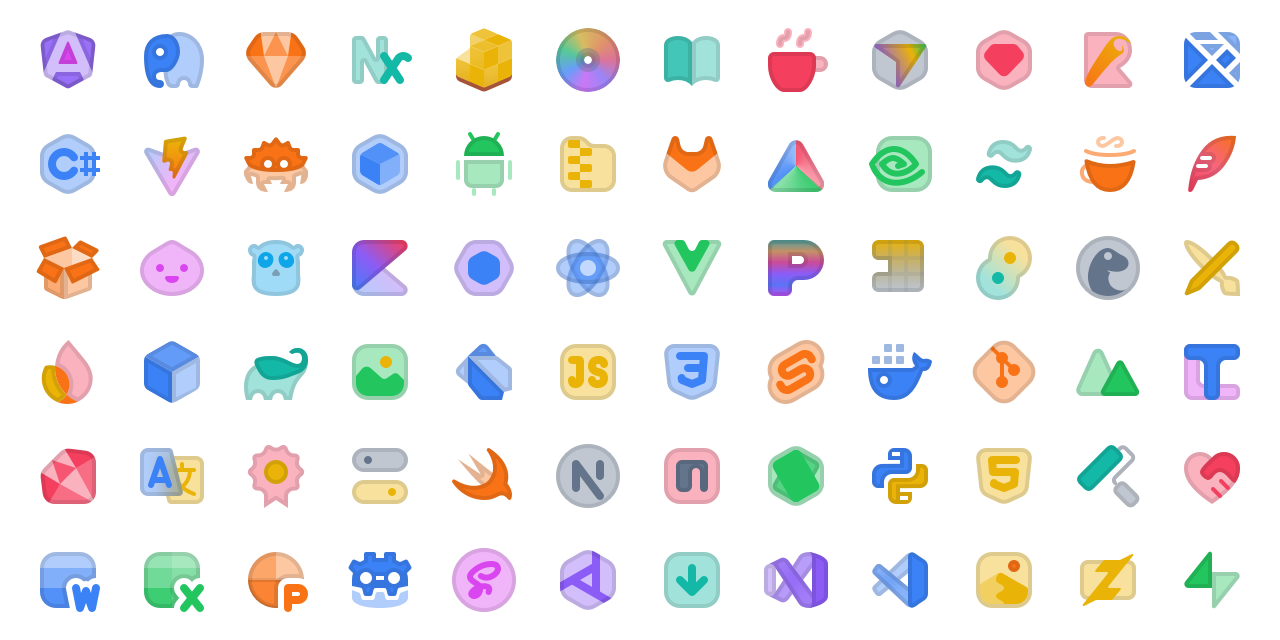
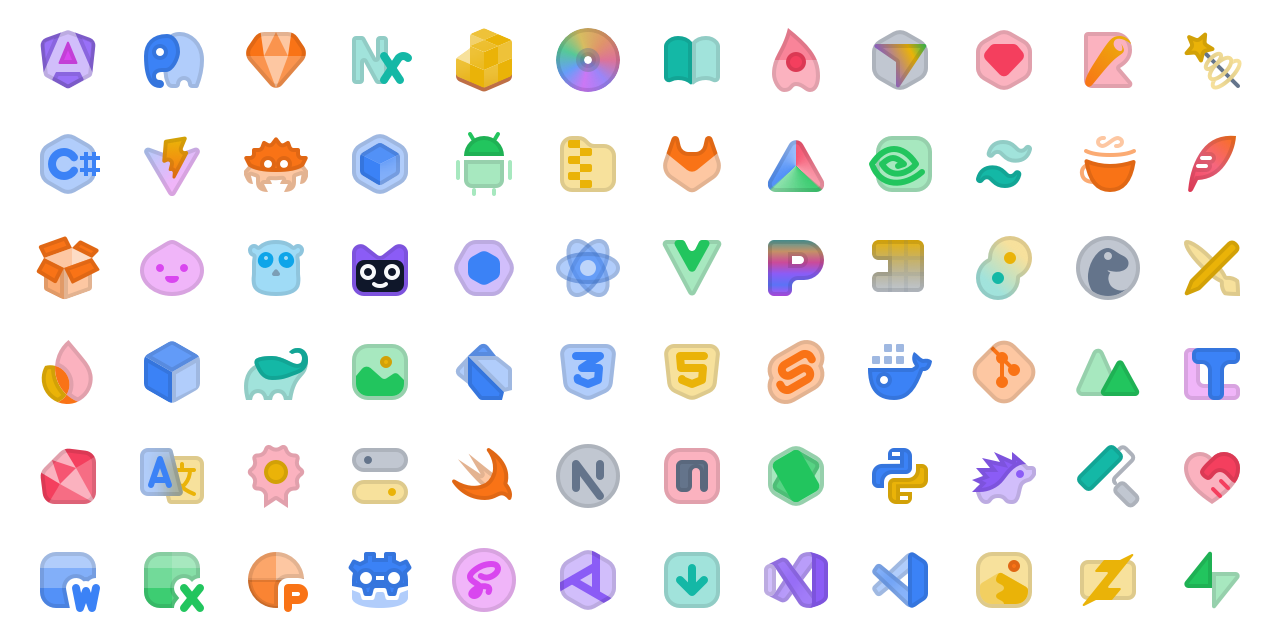
🌼 1.3.0

diff --git a/readme.md b/readme.md
@@ -35,7 +35,27 @@
 
 ## Preview
 
-<br />
+<p align="center">
+  <img width="640" src="https://raw.githubusercontent.com/thang-nm/Flow-Icons/main/freeCodeCamp.png">
+</p>
+
+## Packs
+
+See [Toggle icon packs](#toggle-icon-packs) guide.
+
+<p align="center">
+  <img width="640" src="https://raw.githubusercontent.com/thang-nm/Flow-Icons/main/packs.png">
+</p>
+
+## Alternatives
+
+See [Icon replacements](#icon-replacements) guide.
+
+<p align="center">
+  <img width="640" src="https://raw.githubusercontent.com/thang-nm/Flow-Icons/main/alternatives.png">
+</p>
+
+## Icons
 
 <p align="center">
   <img width="640" src="https://raw.githubusercontent.com/thang-nm/Flow-Icons/main/icons.png">
@@ -49,7 +69,7 @@ You'll then be prompted to download the icons.
 
 ## Features
 
-- Supports dark, light, and dim themes
+- Supports dark and light themes
 - Looks great even on non-Retina displays
 - Includes most common file and folder types
 - Offers customization options
@@ -63,7 +83,7 @@ Defaults for each setting are shown below.
 ```jsonc
 {
   // Set default folder color
-  // Available colors: red | orange | yellow | green | blue | sky | pink | purple | teal | gray | brown
+  // Available colors: gray | blue | brown | green | lime | orange | pink | purple | red | sky | teal | yellow
   "flow-icons.folderColor": "gray",
 
   // Set to `true` to hide folding arrows next to folder icons.
@@ -131,10 +151,34 @@ You can see the file and folder names in the preview image or [here](https://flo
 
 ```jsonc
 "flow-icons.activeIconPack": {
-  "angular": false,
-  "nest": true,
+  "angular": true,
+  "bashly": true,
+  "nest": false,
   "next": true,
   "roblox": true
+},
+```
+
+### Icon replacements
+
+Some icons have alternative versions, which you can use to replace the default ones.
+
+#### File replacements
+
+```jsonc
+"flow-icons.files.replacements": {
+  // "replace_icon": "with_icon",
+  "rust": "rust_alt",
+  "kotlin": "kotlin_alt",
+},
+```
+
+#### Folder replacements
+
+```jsonc
+"flow-icons.folders.replacements": {
+  // "replace_icon": "with_icon",
+  "components": "react-components"
 },
 ```
 
@@ -142,11 +186,14 @@ The default value is shown above. For more details about the packs, please see [
 
 You can set the value to `false` if you want to disable it. (The `angular` and `nest` packs will conflict if you enable both).
 
+⚠ Quickly see all available packs [here](https://github.com/thang-nm/Flow-Icons/tree/main?tab=readme-ov-file#toggle-icon-packs).
+
 ## Command List
 
-| Command            | Description                |
-| ------------------ | -------------------------- |
-| **Download Icons** | Download the latest icons. |
+| Command            | Description                             |
+| ------------------ | --------------------------------------- |
+| **Download Icons** | Download the latest icons.              |
+| **Rebuild Icons**  | Rebuild the icons with custom settings. |
 
 ## Requesting Icons
 
